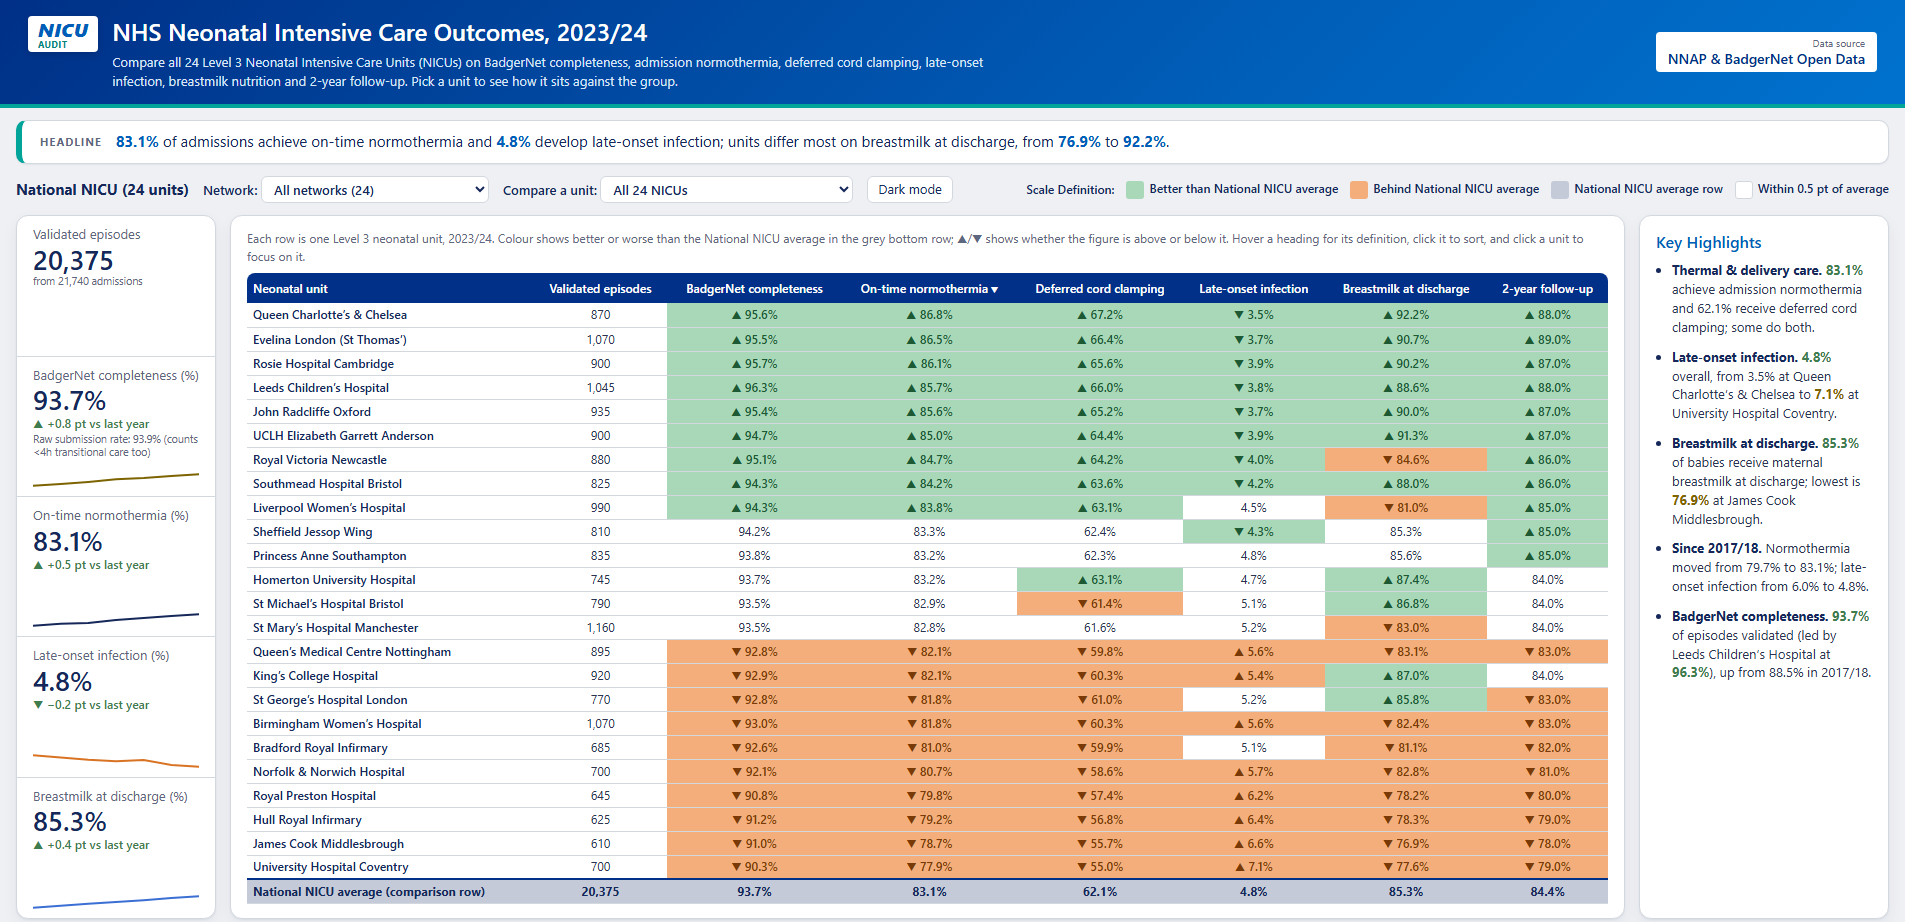
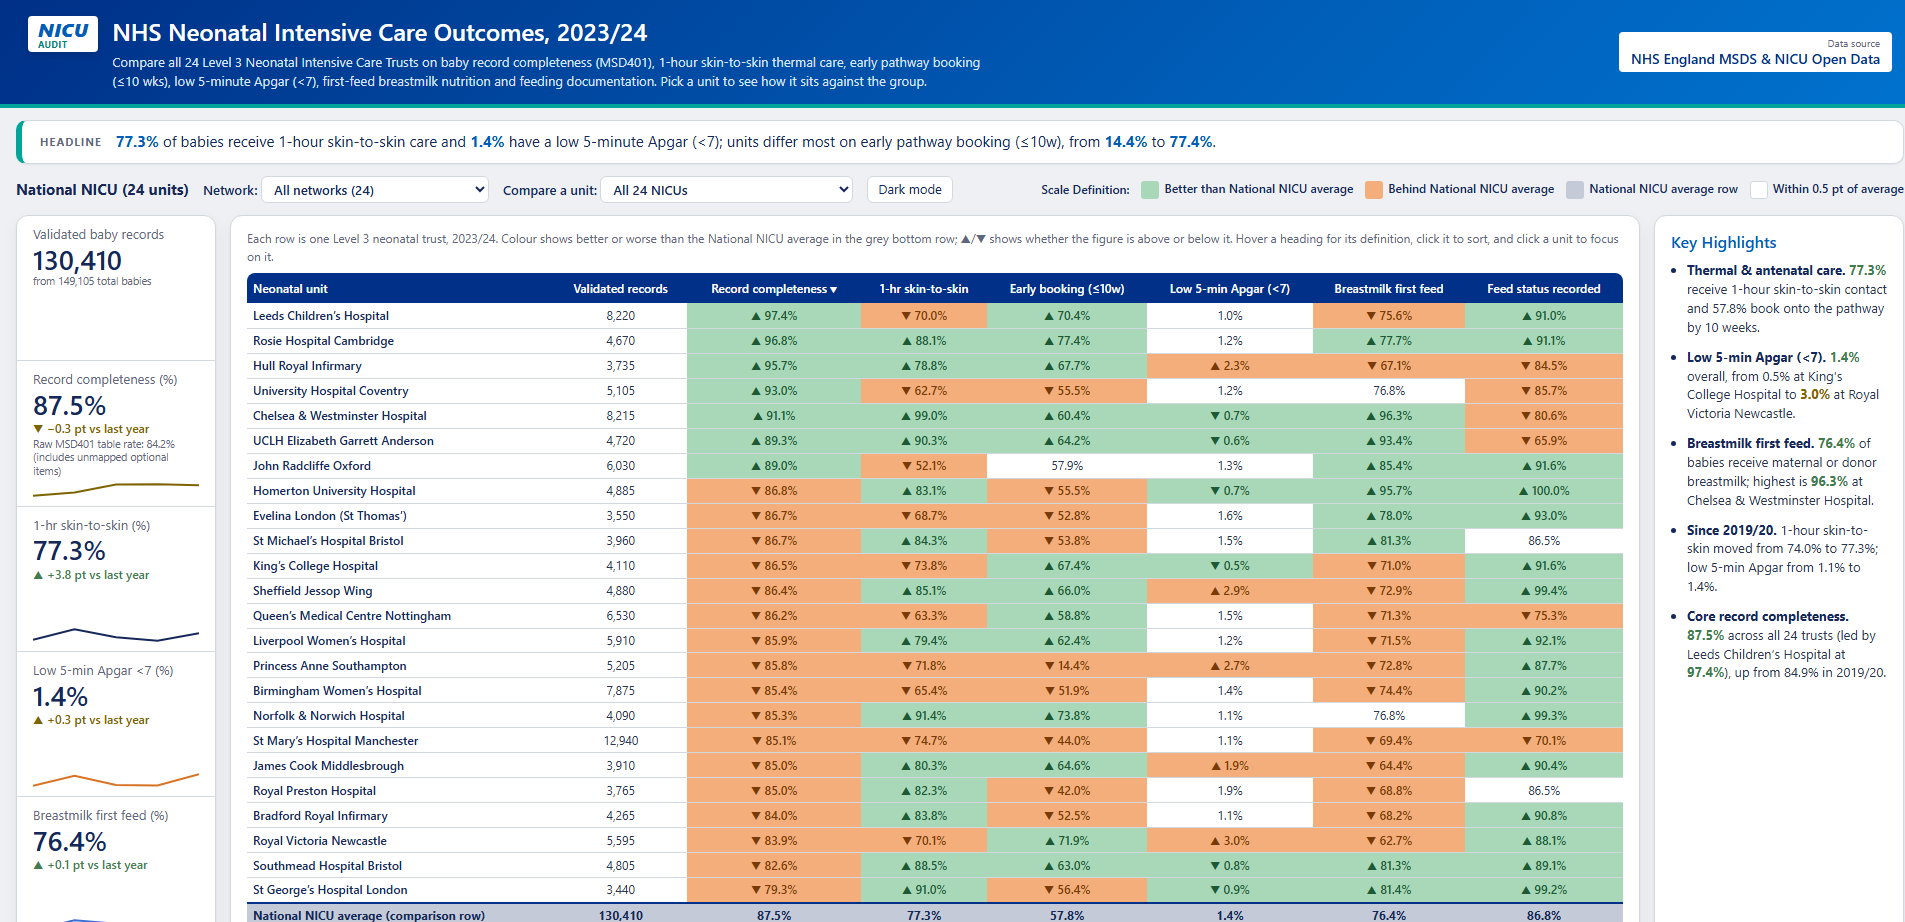
Update NHS Neonatal dashboard cover and metadata for official NHS England open data

diff --git a/script.js b/script.js
@@ -23,16 +23,16 @@
             outcome: "Colour-codes each university above or below the Russell Group average, with rankings, seven-year trends, subject-level gaps and salary bands."
         },
         nicu: {
-            title: "NHS Neonatal Intensive Care Outcomes 2023/24: Clinical Audit & BadgerNet Data Quality",
-            question: "How do England's 24 Level 3 Neonatal Intensive Care Units compare on BadgerNet episode completeness and clinical care?",
+            title: "NHS Neonatal Intensive Care Outcomes 2023/24: Clinical Audit & MSDS Data Quality",
+            question: "How do England's 24 Level 3 Neonatal Intensive Care Trusts compare on baby record completeness (MSD401) and perinatal care?",
             embedUrl: "https://subramanian-ms.github.io/nhs-neonatal-outcomes-dashboard/",
-            coverImg: "images/NHS_Neonatal_cover.png",
+            coverImg: "images/NHS_Neonatal_cover.png?v=20261031d",
             coverAlt: "NHS Neonatal Intensive Care Outcomes 2023/24 Dashboard",
-            tags: ["Python (pandas)", "BadgerNet data quality", "NHS disclosure control", "NNAP clinical audit", "22 automated checks"],
-            summary: "An interactive clinical audit dashboard comparing all 24 English Level 3 Neonatal Intensive Care Units (NICUs) across Operational Delivery Networks (including Yorkshire & Humber) on BadgerNet completeness, admission normothermia, deferred cord clamping, late-onset infection, breastmilk nutrition and 2-year follow-up.",
-            prep: "Filtered multi-year NNAP and BadgerNet tables to the 24 Level 3 NICUs by NHS ODS code, standardised clinical cohort definitions, and built unit and ODN network lookup tables via a repeatable Python pipeline.",
-            validation: "Applied NHS England statistical disclosure control (rounding to nearest 5, suppressing <8 episodes, flagging <25 for wide 95% CIs) and built 22 automated reconciliation checks against published tables.",
-            outcome: "Enables instant benchmarking by ODN region or individual hospital (e.g. Leeds Children's Hospital) against the National NICU average across 7-year trajectories, 16 clinical cohorts, and 14 gestational age bands."
+            tags: ["Python (pandas)", "NHS England open data", "NHS disclosure control", "MSDS data quality", "22 automated checks"],
+            summary: "An interactive clinical and data-quality dashboard comparing all 24 English Level 3 Neonatal Intensive Care Trusts across Operational Delivery Networks (including Yorkshire & Humber) on core baby record completeness (MSD401), 1-hour skin-to-skin thermal care, early pathway booking (≤10 wks), low 5-minute Apgar (<7), first-feed breastmilk nutrition and feeding documentation.",
+            prep: "Ingested 5 years (2019/20–2023/24) of official NHS England Maternity Services Data Set (MSDS) and Data Quality CSVs (files.digital.nhs.uk), harmonised schema changes across annual releases, and built star-schema lookup tables via a repeatable Python pipeline.",
+            validation: "Separated core MSD401 baby fields from unmapped optional items (M401090/M401180), applied NHS England statistical disclosure control (rounding to nearest 5, suppressing <8 records, flagging <25 for wide 95% CIs) and built 22 automated reconciliation checks.",
+            outcome: "Enables instant benchmarking by ODN region or individual trust (e.g. Leeds Children's Hospital, ranked 1st of 24 on core baby record completeness at 97.4%) across 5-year trends, 16 MSDS data items, and 11 gestational age bands."
         },
         finance: {
             title: "Corporate Finance & Commercial Variance Dashboard",
@@ -45,16 +45,16 @@
             outcome: "Highlighted over £140K in misallocated departmental expenses, gave budget holders self-service variance drill-downs, and reduced month-end variance reporting time by 65%."
         },
         nhs: {
-            title: "NHS Neonatal Intensive Care Outcomes 2023/24: Clinical Audit & BadgerNet Data Quality",
-            question: "How do England's 24 Level 3 Neonatal Intensive Care Units compare on BadgerNet episode completeness and clinical care?",
+            title: "NHS Neonatal Intensive Care Outcomes 2023/24: Clinical Audit & MSDS Data Quality",
+            question: "How do England's 24 Level 3 Neonatal Intensive Care Trusts compare on baby record completeness (MSD401) and perinatal care?",
             embedUrl: "https://subramanian-ms.github.io/nhs-neonatal-outcomes-dashboard/",
-            coverImg: "images/NHS_Neonatal_cover.png",
+            coverImg: "images/NHS_Neonatal_cover.png?v=20261031d",
             coverAlt: "NHS Neonatal Intensive Care Outcomes 2023/24 Dashboard",
-            tags: ["Python (pandas)", "BadgerNet data quality", "NHS disclosure control", "NNAP clinical audit", "22 automated checks"],
-            summary: "An interactive clinical audit dashboard comparing all 24 English Level 3 Neonatal Intensive Care Units (NICUs) across Operational Delivery Networks (including Yorkshire & Humber) on BadgerNet completeness, admission normothermia, deferred cord clamping, late-onset infection, breastmilk nutrition and 2-year follow-up.",
-            prep: "Filtered multi-year NNAP and BadgerNet tables to the 24 Level 3 NICUs by NHS ODS code, standardised clinical cohort definitions, and built unit and ODN network lookup tables via a repeatable Python pipeline.",
-            validation: "Applied NHS England statistical disclosure control (rounding to nearest 5, suppressing <8 episodes, flagging <25 for wide 95% CIs) and built 22 automated reconciliation checks against published tables.",
-            outcome: "Enables instant benchmarking by ODN region or individual hospital (e.g. Leeds Children's Hospital) against the National NICU average across 7-year trajectories, 16 clinical cohorts, and 14 gestational age bands."
+            tags: ["Python (pandas)", "NHS England open data", "NHS disclosure control", "MSDS data quality", "22 automated checks"],
+            summary: "An interactive clinical and data-quality dashboard comparing all 24 English Level 3 Neonatal Intensive Care Trusts across Operational Delivery Networks (including Yorkshire & Humber) on core baby record completeness (MSD401), 1-hour skin-to-skin thermal care, early pathway booking (≤10 wks), low 5-minute Apgar (<7), first-feed breastmilk nutrition and feeding documentation.",
+            prep: "Ingested 5 years (2019/20–2023/24) of official NHS England Maternity Services Data Set (MSDS) and Data Quality CSVs (files.digital.nhs.uk), harmonised schema changes across annual releases, and built star-schema lookup tables via a repeatable Python pipeline.",
+            validation: "Separated core MSD401 baby fields from unmapped optional items (M401090/M401180), applied NHS England statistical disclosure control (rounding to nearest 5, suppressing <8 records, flagging <25 for wide 95% CIs) and built 22 automated reconciliation checks.",
+            outcome: "Enables instant benchmarking by ODN region or individual trust (e.g. Leeds Children's Hospital, ranked 1st of 24 on core baby record completeness at 97.4%) across 5-year trends, 16 MSDS data items, and 11 gestational age bands."
         },
         aviation: {
             title: "UK Civil Aviation Flight Reliability & Delay Benchmarking (Jan to May 2025)",

diff --git a/index.html b/index.html
@@ -683,7 +683,7 @@
     </aside>
 
     <!-- Scripts -->
-    <script src="script.js?v=20261031c"></script>
+    <script src="script.js?v=20261031d"></script>
 </body>
 
 </html>
